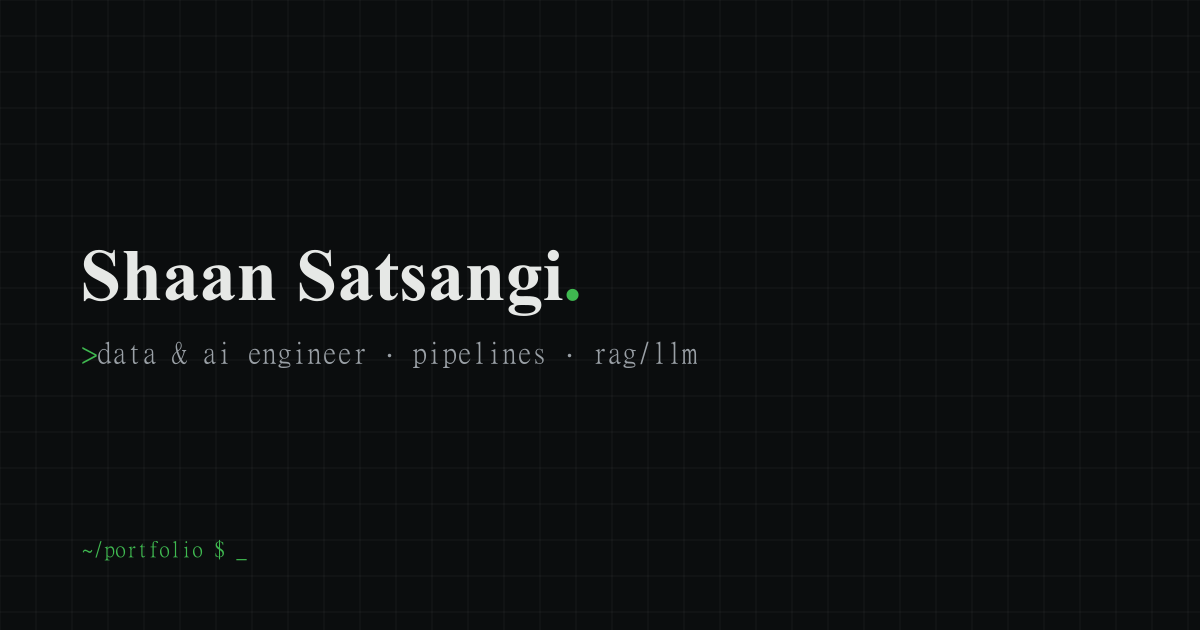
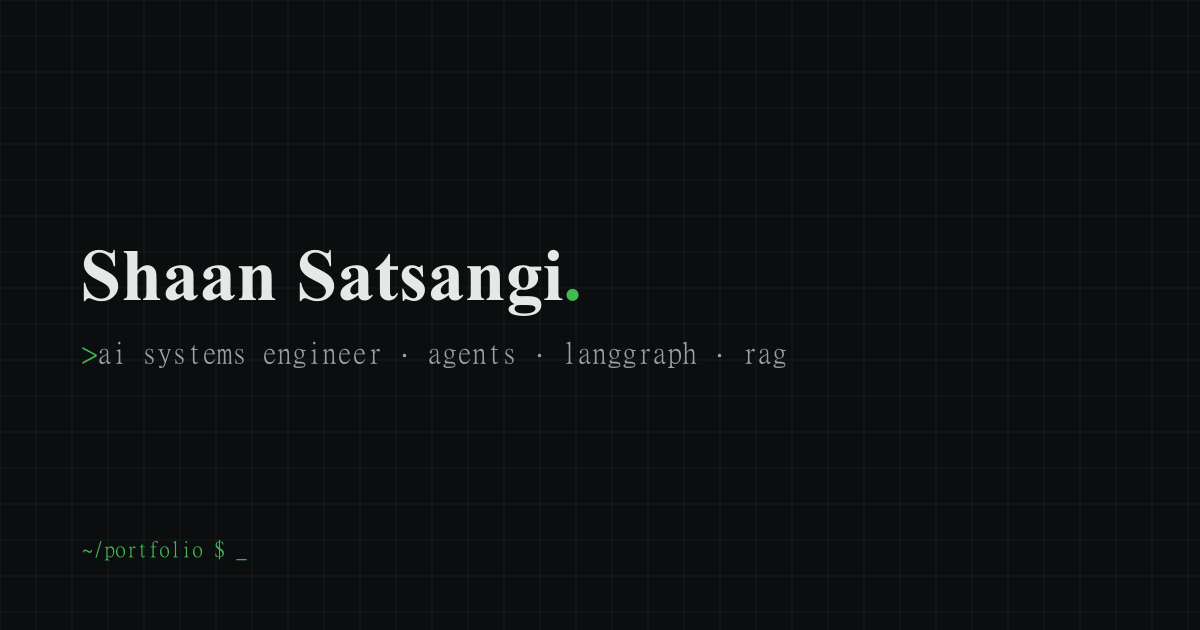
feat: reposition as AI systems engineer — LangChain/LangGraph, graduated
- Reframe Hero, About, and SEO metadata from "Data & AI Engineer" to
  "AI Systems Engineer"; new About copy leads with creator of Skill Issue
  and a systems-over-demos voice
- Restructure Skills into 6 cards led by Agentic AI & LLMs, adding
  LangChain and LangGraph (working tier) and a Systems & Architecture card
- Mark education complete: Nov 2022 – Jun 2026 with a graduated badge;
  Person JSON-LD gains alumniOf
- Sync AI-Reel-Factory project card with the repo README (Chirp 3 HD
  narration, Flux AI B-roll on Cloudflare Workers AI)
- Add langchain/langgraph/pytorch devicons and regenerate og.png

Changed region(s): [[0.0617, 0.5429, 0.3083, 0.6032], [0.3392, 0.5429, 0.5858, 0.6032], [0.6167, 0.5429, 0.6475, 0.573]]

diff --git a/src/components/Skills.tsx b/src/components/Skills.tsx
@@ -17,6 +17,52 @@ export default function Skills() {
 
   const skillsData: { title: string; label: string; items: { name: string; tier: Tier }[] }[] = [
     {
+      title: "Agentic AI & LLMs",
+      label: "> agentic_ai",
+      items: [
+        { name: "LangGraph (stateful agent graphs)", tier: "working" },
+        { name: "LangChain (chains & tool-calling)", tier: "working" },
+        { name: "Multi-Agent Orchestration", tier: "strong" },
+        { name: "MCP / Structured Tool Routing", tier: "strong" },
+        { name: "LLM APIs (Claude / Gemini / Groq)", tier: "strong" },
+        { name: "Local LLM Inference (Ollama)", tier: "working" },
+      ],
+    },
+    {
+      title: "Retrieval & Machine Learning",
+      label: "> retrieval_ml",
+      items: [
+        { name: "RAG / Vector DBs (FAISS)", tier: "core" },
+        { name: "Embeddings & Semantic Search", tier: "strong" },
+        { name: "PyTorch / TensorFlow", tier: "strong" },
+        { name: "Scikit-learn / Pandas", tier: "core" },
+        { name: "OpenCV / NLP", tier: "strong" },
+      ],
+    },
+    {
+      title: "Systems & Architecture",
+      label: "> systems_design",
+      items: [
+        { name: "System Design", tier: "strong" },
+        { name: "Distributed Systems & Scalability", tier: "working" },
+        { name: "Idempotency, Retries & Fail-Soft State", tier: "strong" },
+        { name: "Caching & Cache-Stampede Prevention", tier: "strong" },
+        { name: "OOP / DSA / C / C++", tier: "strong" },
+      ],
+    },
+    {
+      title: "Backend & Platform",
+      label: "> backend_platform",
+      items: [
+        { name: "FastAPI / REST APIs", tier: "core" },
+        { name: "PostgreSQL / Neon / Supabase", tier: "core" },
+        { name: "Redis (Upstash) / Queues", tier: "strong" },
+        { name: "Docker / GitHub Actions CI/CD", tier: "strong" },
+        { name: "Linux / Bash / Shell Tooling", tier: "strong" },
+        { name: "Observability (PostHog / Sentry)", tier: "working" },
+      ],
+    },
+    {
       title: "Data Engineering",
       label: "> data_engineering",
       items: [
@@ -24,18 +70,6 @@ export default function Skills() {
         { name: "dbt / SQL (PostgreSQL)", tier: "core" },
         { name: "Databricks / Delta Lake", tier: "working" },
         { name: "ETL / ELT Pipelines", tier: "strong" },
-      ],
-    },
-    {
-      title: "AI & Machine Learning",
-      label: "> ai_ml",
-      items: [
-        { name: "LLM APIs (Claude / Gemini / Groq)", tier: "strong" },
-        { name: "RAG / Vector DBs (FAISS)", tier: "strong" },
-        { name: "TensorFlow / PyTorch", tier: "strong" },
-        { name: "Scikit-learn / Pandas", tier: "core" },
-        { name: "OpenCV / NLP", tier: "strong" },
-        { name: "Local LLM Inference (Ollama)", tier: "working" },
       ],
     },
     {
@@ -48,23 +82,17 @@ export default function Skills() {
         { name: "Actionable Insights", tier: "strong" },
       ],
     },
-    {
-      title: "Software Engineering",
-      label: "> software_eng",
-      items: [
-        { name: "C / C++", tier: "strong" },
-        { name: "System Design", tier: "working" },
-        { name: "OOP / DSA", tier: "strong" },
-        { name: "Linux / Bash / Docker", tier: "strong" },
-      ],
-    },
   ];
 
   const tools = [
-    { file: "python", name: "Python" }, { file: "fastapi", name: "FastAPI" },
+    { file: "python", name: "Python" },
+    { file: "langchain", name: "LangChain", invert: true },
+    { file: "langgraph", name: "LangGraph", invert: true },
+    { file: "fastapi", name: "FastAPI" },
     { file: "nextjs", name: "Next.js", invert: true }, { file: "react", name: "React" },
     { file: "typescript", name: "TypeScript" }, { file: "postgresql", name: "PostgreSQL" },
     { file: "redis", name: "Redis" }, { file: "docker", name: "Docker" },
+    { file: "pytorch", name: "PyTorch" },
     { file: "tensorflow", name: "TensorFlow" }, { file: "scikitlearn", name: "Scikit-learn" },
     { file: "opencv", name: "OpenCV" }, { file: "pandas", name: "Pandas", invert: true },
     { file: "apachespark", name: "Apache Spark" }, { file: "apacheairflow", name: "Airflow" },

diff --git a/src/components/About.tsx b/src/components/About.tsx
@@ -54,7 +54,7 @@ export default function About() {
                 />
               </div>
               <div className="font-display text-[20px] sm:text-[24px] font-bold mb-1">Shaan Satsangi</div>
-              <div className="text-muted mono text-[12px]">data &amp; ai engineer · rag/llm systems</div>
+              <div className="text-muted mono text-[12px]">ai systems engineer · agents &amp; retrieval</div>
               <div className="inline-flex items-center gap-1.5 text-muted mono text-[11px] mt-2.5">
                 <MapPin className="w-3.5 h-3.5" />
                 Jaipur, Rajasthan, India
@@ -91,16 +91,16 @@ export default function About() {
         <div>
           <motion.div variants={itemVariants} className="eyebrow mb-4.5">about</motion.div>
           <motion.h2 variants={itemVariants} className="display mb-5.5">
-            Pipelines over <br /><span className="accent">flashy demos.</span>
+            I build systems, <br />not <span className="accent">demos.</span>
           </motion.h2>
           <motion.p variants={itemVariants} className="text-[15px] lg:text-[17px] leading-[1.75] text-muted2 mb-6">
-            I&apos;m a Computer Science undergrad at JECRC, Jaipur, working across the full data stack — <span className="accent font-medium">Data Engineering</span>, <span className="accent font-medium">Data Science</span>, and <span className="accent font-medium">Analytics</span>. I like turning messy inputs into systems that run themselves.
+            I design and ship <span className="accent font-medium">AI systems</span> — agents that plan, retrieve, and actually finish the job. B.Tech in Computer Science from JECRC Jaipur, class of 2026, now doing this full-time: multi-agent pipelines, <span className="accent font-medium">RAG</span> over real corpora, MCP-style tool routing, and all the unglamorous plumbing that keeps them alive in production. <span className="accent font-medium">LangChain</span> and <span className="accent font-medium">LangGraph</span> sit in the toolkit for when a graph beats hand-rolled orchestration.
           </motion.p>
           <motion.p variants={itemVariants} className="text-[15px] lg:text-[17px] leading-[1.75] text-muted2 mb-6">
-            My philosophy is simple: <em className="text-foreground">clean data over clever models, and bulletproof pipelines over flashy demos</em>. Whether it&apos;s a medallion lakehouse or an autonomous content factory, I care about the thing still working tomorrow.
+            I&apos;m the creator of <a href="https://skillissue.tech" target="_blank" rel="noreferrer" className="text-foreground underline decoration-accent/40 underline-offset-4 transition-colors hover:decoration-accent">Skill Issue</a>, a GitHub code-intelligence platform where the score is deterministic and the LLM only narrates. That&apos;s the whole philosophy — <em className="text-foreground">the model is a component, not the architecture</em>. Hand me a messy problem and you get a system back: retries, caches, idempotent state, and a human-in-the-loop gate exactly where it matters.
           </motion.p>
           <motion.div variants={itemVariants} className="flex flex-wrap gap-2 mt-5">
-            {["Python", "SQL", "Apache Airflow", "Apache Spark", "dbt", "TensorFlow", "PyTorch", "LangChain", "FAISS", "Scikit-learn", "OpenCV", "Next.js", "FastAPI", "Flask", "Docker", "PostgreSQL", "Redis", "Firebase", "Google Cloud", "C / C++"].map((skill) => (
+            {["Python", "LangChain", "LangGraph", "MCP", "RAG / FAISS", "PyTorch", "TensorFlow", "Scikit-learn", "OpenCV", "FastAPI", "TypeScript", "Next.js", "SQL", "PostgreSQL", "Redis", "Apache Airflow", "Apache Spark", "dbt", "Docker", "GitHub Actions", "Supabase", "Google Cloud", "Flask", "C / C++"].map((skill) => (
               <span key={skill} className="mono text-[11px] py-1 px-3 rounded-[6px] bg-surface border border-border text-muted2 transition-colors duration-200 hover:border-accent/50 hover:text-foreground">
                 {skill}
               </span>

diff --git a/src/app/layout.tsx b/src/app/layout.tsx
@@ -23,10 +23,10 @@ const SITE = "https://shaansatsangi.com";
 
 export const metadata: Metadata = {
   metadataBase: new URL(SITE),
-  title: "Shaan Satsangi · Data & AI Engineer",
+  title: "Shaan Satsangi · AI Systems Engineer",
   description:
-    "Data & AI engineer building autonomous pipelines, lakehouses, and RAG/LLM systems — plus full-stack apps with Next.js and FastAPI. Airflow, Spark, dbt, MCP, and more.",
-  keywords: ["Shaan Satsangi", "data engineer", "AI engineer", "LLM", "RAG", "Model Context Protocol", "ML", "analytics", "Airflow", "dbt", "FastAPI", "Python", "SQL", "portfolio"],
+    "AI systems engineer and creator of Skill Issue. I build multi-agent pipelines, RAG retrieval, and MCP tool-calling, plus the data pipelines behind them — Python, LangChain, LangGraph, FastAPI, Next.js.",
+  keywords: ["Shaan Satsangi", "AI systems engineer", "AI engineer", "LangChain", "LangGraph", "AI agents", "agentic AI", "LLM", "RAG", "Model Context Protocol", "Skill Issue", "data engineer", "Airflow", "dbt", "FastAPI", "Python", "SQL", "portfolio"],
   authors: [{ name: "Shaan Satsangi", url: SITE }],
   creator: "Shaan Satsangi",
   alternates: { canonical: SITE },
@@ -34,14 +34,14 @@ export const metadata: Metadata = {
     type: "website",
     url: SITE,
     siteName: "Shaan Satsangi",
-    title: "Shaan Satsangi · Data & AI Engineer",
-    description: "Autonomous pipelines, lakehouses & RAG/LLM systems. Pipelines over flashy demos.",
-    images: [{ url: "/og.png", width: 1200, height: 630, alt: "Shaan Satsangi — Data & AI Engineer" }],
+    title: "Shaan Satsangi · AI Systems Engineer",
+    description: "Multi-agent pipelines, RAG retrieval, and MCP tool-calling. Creator of Skill Issue. I build systems, not demos.",
+    images: [{ url: "/og.png", width: 1200, height: 630, alt: "Shaan Satsangi — AI Systems Engineer" }],
   },
   twitter: {
     card: "summary_large_image",
-    title: "Shaan Satsangi · Data & AI Engineer",
-    description: "Autonomous pipelines, lakehouses & RAG/LLM systems. Pipelines over flashy demos.",
+    title: "Shaan Satsangi · AI Systems Engineer",
+    description: "Multi-agent pipelines, RAG retrieval, and MCP tool-calling. Creator of Skill Issue. I build systems, not demos.",
     images: ["/og.png"],
   },
 };
@@ -52,21 +52,32 @@ const personJsonLd = {
   name: "Shaan Satsangi",
   url: SITE,
   image: `${SITE}/me.jpg`,
-  jobTitle: "Data & AI Engineer",
+  jobTitle: "AI Systems Engineer",
   description:
-    "Data & AI engineer building autonomous pipelines, lakehouses, and RAG/LLM systems.",
+    "AI systems engineer and creator of Skill Issue, building multi-agent pipelines, RAG retrieval, and MCP tool-calling, with LangChain and LangGraph in the toolkit.",
   email: "mailto:shaansatsangi@gmail.com",
   knowsAbout: [
+    "Agentic AI",
+    "LangChain",
+    "LangGraph",
+    "AI Agents",
+    "RAG / LLM Systems",
+    "Model Context Protocol",
+    "System Design",
+    "Machine Learning",
+    "PyTorch",
+    "FastAPI",
     "Data Engineering",
     "Apache Airflow",
     "Apache Spark",
     "dbt",
-    "FastAPI",
-    "Machine Learning",
     "Data Analytics",
-    "RAG / LLM Systems",
-    "Model Context Protocol",
   ],
+  alumniOf: {
+    "@type": "CollegeOrUniversity",
+    name: "Jaipur Engineering College and Research Centre",
+    sameAs: "https://www.jecrcfoundation.com/",
+  },
   address: { "@type": "PostalAddress", addressLocality: "Jaipur", addressRegion: "Rajasthan", addressCountry: "IN" },
   sameAs: ["https://github.com/Shaan-alpha", "https://linkedin.com/in/shaansatsangi"],
 };

diff --git a/src/components/Projects.tsx b/src/components/Projects.tsx
@@ -77,12 +77,12 @@ export default function Projects() {
       date: "Jun 2026",
       status: "shipped",
       title: "AI Reel Factory — Autonomous Shorts",
-      desc: "A near-$0/month autonomous content factory: it researches news, writes scripts, narrates, renders captioned vertical video, and publishes 4–5 YouTube Shorts/day — with one human Telegram tap per day.",
-      tags: ["Python", "Gemini", "Supabase", "FFmpeg", "faster-whisper", "edge-tts", "YouTube API", "GitHub Actions"],
+      desc: "A near-$0/month autonomous content factory: it researches news, writes scripts, narrates in a near-human voice, generates AI B-roll, edits a captioned cinematic vertical video, and publishes 4–5 YouTube Shorts/day — with one human Telegram tap.",
+      tags: ["Python", "Gemini", "Cloudflare Workers AI", "Supabase", "FFmpeg", "faster-whisper", "YouTube API", "GitHub Actions"],
       bullets: [
-        "Idea→script→voice→captioned-video→publish pipeline orchestrated by GitHub Actions cron; one Telegram 'Morning Digest' approval per day",
-        "Gemini (Groq failover) scripting, edge-tts narration, Pexels/Pixabay visuals, FFmpeg assembly, faster-whisper word-by-word captions",
-        "Supabase Postgres state; publishes to YouTube @butitmatters at $0/month beyond an existing subscription",
+        "Multi-stage agent pipeline (ideation → script → voice → AI B-roll → edit → publish) on GitHub Actions cron; one Telegram 'Morning Digest' approval per day",
+        "Gemini (Groq failover) scripting, Google Chirp 3 HD narration with edge-tts/Kokoro fallback, Flux B-roll on Workers AI, faster-whisper word-by-word captions",
+        "Idempotent fail-soft run state in Supabase Postgres with safe retries and structured logging; publishes to YouTube @butitmatters at ~$0/month",
       ],
       link: "https://github.com/Shaan-alpha/AI-Reel-Factory",
       liveLink: "https://youtube.com/@butitmatters",
@@ -188,7 +188,7 @@ export default function Projects() {
             Featured <span className="accent">work</span>
           </motion.h2>
           <motion.p variants={itemVariants} className="mono text-[13px] lg:text-[14px] leading-[1.75] text-muted2 max-w-[560px]">
-            End-to-end projects spanning data engineering, AI/ML, and automation — all real, all shipped.
+            Agentic AI systems, developer platforms, and data pipelines — all real, all shipped, all running in production.
           </motion.p>
 
           <div className="grid grid-cols-1 md:grid-cols-2 gap-5 mt-[60px]">

diff --git a/src/components/Certifications.tsx b/src/components/Certifications.tsx
@@ -46,8 +46,11 @@ export default function Certifications() {
             <div>
               <div className="font-display text-[20px] sm:text-[26px] font-bold mb-1.5">Jaipur Engineering College<br />and Research Center</div>
               <div className="text-[13px] sm:text-[15px] text-muted2 mb-3.5">B.Tech in Computer Science & Engineering</div>
-              <div className="flex items-center gap-1.5 mono text-[12px] text-muted">
-                <CheckCircle2 className="w-3.5 h-3.5 text-accent" /> Nov 2022 – Present
+              <div className="flex flex-wrap items-center gap-x-3 gap-y-2 mono text-[12px] text-muted">
+                <span className="inline-flex items-center gap-1.5">
+                  <CheckCircle2 className="w-3.5 h-3.5 text-accent" /> Nov 2022 – Jun 2026
+                </span>
+                <span className="mono text-[10px] px-2 py-0.5 border border-accent text-accent">[ graduated ]</span>
               </div>
             </div>
             <div className="text-center bg-bg2 border border-border2 rounded-[var(--r2)] py-4 px-6 sm:py-6 sm:px-8 flex flex-col items-center">

diff --git a/src/components/Contact.tsx b/src/components/Contact.tsx
@@ -87,7 +87,7 @@ export default function Contact() {
               </div>
               <div className="flex flex-col gap-1.5 mb-4">
                 <label htmlFor="subject" className="mono text-[11px] tracking-[0.04em] text-muted">subject</label>
-                <input id="subject" name="subject" type="text" placeholder="Project idea, internship, collaboration…" className="bg-bg1 border border-border rounded-[var(--r)] px-4 py-3 text-foreground text-[14px] outline-none transition-colors duration-200 focus:border-accent" />
+                <input id="subject" name="subject" type="text" placeholder="Role, project idea, collaboration…" className="bg-bg1 border border-border rounded-[var(--r)] px-4 py-3 text-foreground text-[14px] outline-none transition-colors duration-200 focus:border-accent" />
               </div>
               <div className="flex flex-col gap-1.5 mb-4">
                 <label htmlFor="message" className="mono text-[11px] tracking-[0.04em] text-muted">message</label>

diff --git a/src/lib/techIcons.tsx b/src/lib/techIcons.tsx
@@ -20,6 +20,10 @@ const TECH: Record<string, Logo> = {
   "upstash redis": { file: "redis" },
   docker: { file: "docker" },
   tensorflow: { file: "tensorflow" },
+  pytorch: { file: "pytorch" },
+  langchain: { file: "langchain", invert: true },
+  langgraph: { file: "langgraph", invert: true },
+  "langchain / langgraph": { file: "langchain", invert: true },
   "scikit-learn": { file: "scikitlearn" },
   opencv: { file: "opencv" },
   "apache spark": { file: "apachespark" },
@@ -36,6 +40,7 @@ const TECH: Record<string, Logo> = {
   jupyter: { file: "jupyter" },
   vercel: { file: "vercel", invert: true },
   cloudflare: { file: "cloudflare" },
+  "cloudflare workers ai": { file: "cloudflare" },
   sqlite: { file: "sqlite" },
   pandas: { file: "pandas", invert: true },
   supabase: { file: "supabase" },

diff --git a/src/components/Hero.tsx b/src/components/Hero.tsx
@@ -18,7 +18,7 @@ export default function Hero() {
         </h1>
         <p className="mono text-[clamp(13px,1.8vw,18px)] text-muted2 mt-6">
           <span className="accent">&gt; </span>
-          <TypedLine phrases={["data & ai engineer", "rag / llm systems", "ml / analytics", "pipelines over demos"]} />
+          <TypedLine phrases={["ai systems engineer", "multi-agent orchestration", "rag, retrieval & mcp tooling", "langchain / langgraph", "creator of skill issue", "systems, not demos"]} />
         </p>
 
         <div className="flex flex-wrap gap-3 mt-9">

diff --git a/README.md b/README.md
@@ -2,7 +2,7 @@
 
 A terminal/data-themed developer portfolio built with **Next.js 16**, **React 19**, and **Tailwind CSS 4**. Monospace type, a single phosphor accent, flat surfaces, and a self-built generative hero — designed to read like an engineer made deliberate choices, not like a template.
 
-> "Clean data over clever models, and bulletproof pipelines over flashy demos."
+> "The model is a component, not the architecture. I build systems, not demos."
 
 ## Design
 
@@ -26,7 +26,7 @@ A terminal/data-themed developer portfolio built with **Next.js 16**, **React 19
 - **VouchRank** — multi-tenant, white-label reputation & AI-search (AIO/GEO) SaaS for local businesses. *React · Vite · Supabase · Stripe · Twilio.*
 - **Telegram MCP** — local Model Context Protocol server giving AI agents read/write access to a Telegram account via MTProto. *Python · Telethon · MCP · Claude.*
 - **Cog & Cosmos** — pixel-art interconnected incremental/idle game; eight worlds feed one brass Fortune Engine. *Svelte 5 · TypeScript · PixiJS · PWA.*
-- **AI Reel Factory** — autonomous, near-$0/month content factory: researches news, writes scripts, narrates, renders captioned vertical video, and publishes 4–5 YouTube Shorts/day with one Telegram tap. *Python · Gemini · Supabase · FFmpeg · faster-whisper · edge-tts · YouTube API · GitHub Actions.*
+- **AI Reel Factory** — autonomous, near-$0/month content factory: researches news, writes scripts, narrates in a near-human voice, generates AI B-roll, renders captioned vertical video, and publishes 4–5 YouTube Shorts/day with one Telegram tap. *Python · Gemini · Cloudflare Workers AI · Supabase · FFmpeg · faster-whisper · YouTube API · GitHub Actions.*
 - **Skill Issue** — AI-powered GitHub intelligence platform: a deterministic 100-point engineering score and shareable receipts, live at [skillissue.tech](https://skillissue.tech). *Next.js · FastAPI · Neon Postgres · Upstash Redis · Groq.*
 - **CRM + Sales Warehouse** — Airflow ETL into a star-schema PostgreSQL warehouse, surfaced via Power BI.
 - **YouTube Wrapped** — Databricks medallion lakehouse (Bronze → Silver → Gold) on Delta Lake, served via FastAPI + Next.js.
